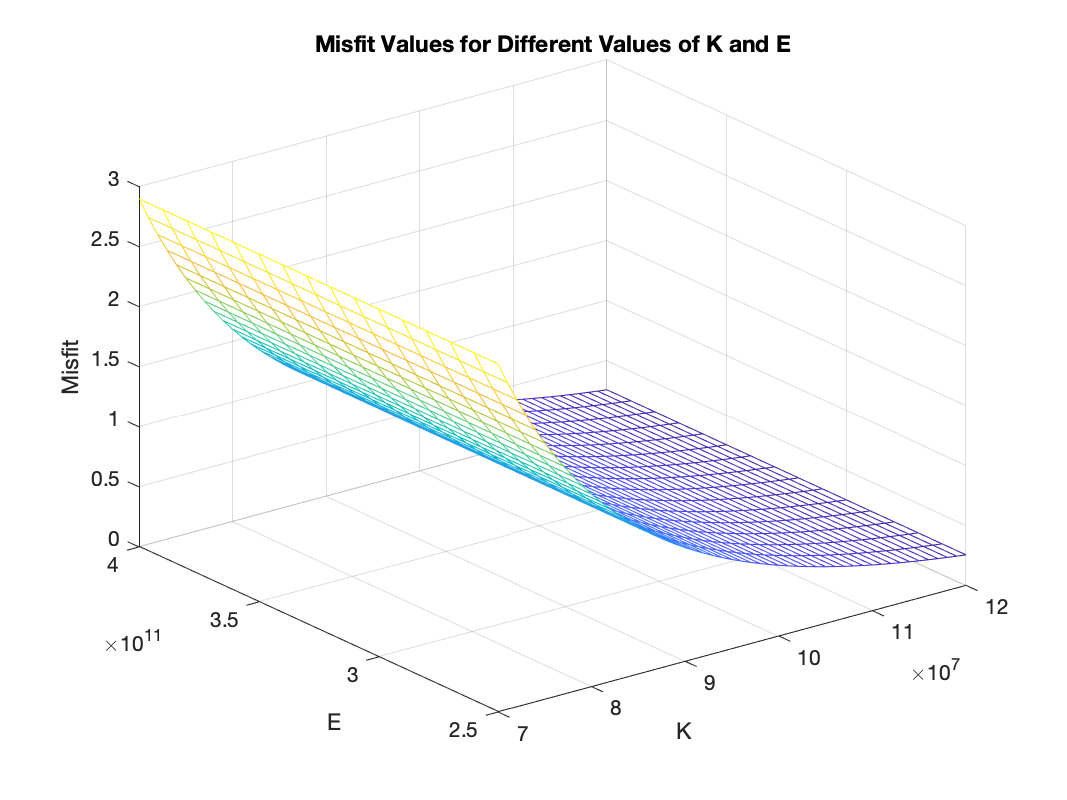
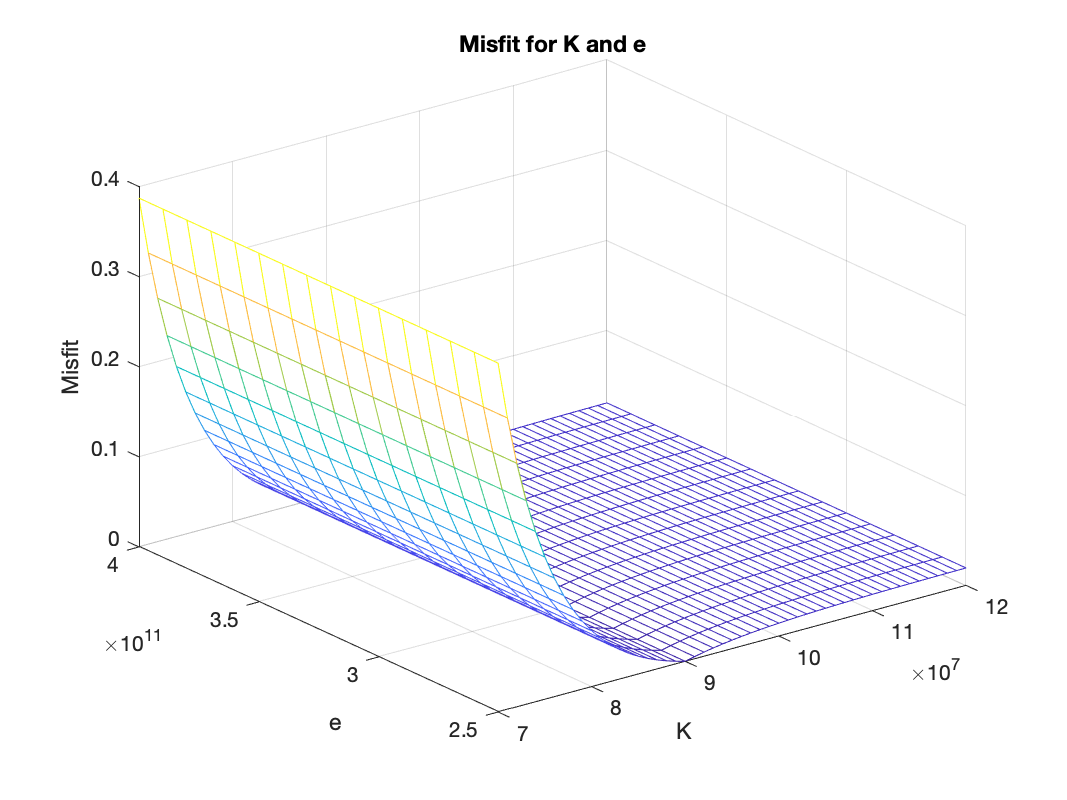
[base] Refactor the code

diff --git a/Project/Project.m b/Project/Project.m
@@ -1,33 +1,13 @@
 clear all; close all; clc;
 
-%% Forward Problem
+% Dataset
 % Define parameters
-beam.E = 300e9; % Pa
+beam.E = 300e+09; % Pa
 beam.K = 90e+06; % Pa
 beam.n = 12;
 dsigma = 0.8e6; % Pa*s^-1
 r = 0.0254; % m
 s = pi * r^2; % m^2
-
-% Define time span
-tspan = [0:0.1:80]'; % s
-
-% Define ODE function
-%[t, epsilon_exp]=ode45(@forward_sigma, tspan, 0, [], beam, dsigma);
-epsilon_exp = forana(beam, tspan, dsigma); % creation of synthetic data
-t = tspan;
-sigma_exp = dsigma * t; % creation of synthetic data
-N = length(epsilon_exp);
-%epsilon_exp = epsilon_exp + 0.01 * randn(N,1);
-
-
-% Plot the forward problem
-figure
-plot(epsilon_exp, sigma_exp);
-xlabel('Strain');
-ylabel('Stress');
-title('Stress-Strain Curve: Forward Problem with Guessed Parameters');
-saveas(gcf, 'assets/forward_problem.png');
 
 % Set range of parameters
 n_range = 4:0.1:30;
@@ -36,77 +16,57 @@ e_range = e_range .* 1e9;
 k_range = 70:1:120;
 k_range = k_range .* 1e6;
 
-% Plot misfit values for different values of n
-for i=1:length(n_range)   
-    x = [beam.E; beam.K; n_range(i)]; 
-    value(i)=misfit_sig(x, epsilon_exp, t, beam, dsigma);
-end
+% Define time span
+tspan = [0:0.1:80]'; % s
+
+% Noise level in percentage
+noise_level = 1;
+
+% Define ODE function
+%[t, epsilon_exp]=ode45(@forward_sigma, tspan, 0, [], beam, dsigma);
+epsilon_exp = forana(beam, tspan, dsigma); % creation of synthetic data
+t = tspan;
+sigma_exp = dsigma * t; % creation of synthetic data
+N = length(epsilon_exp);
+
+
+% Plot the forward problem
 figure
-plot(n_range, value);
-xlabel('n');
-ylabel('Misfit');
-title('Misfit Values for Different Values of n');
-saveas(gcf, 'assets/misfit_n.png');
+plot(epsilon_exp, sigma_exp);
+if noise ~= 0
+    hold on;
+    epsilon_exp = epsilon_exp + noise_level/100 * randn(N,1);
+    plot(epsilon_exp, sigma_exp);
+    hold off;
+    legend('Original', 'Noisy');
+end
+xlabel('Strain');
+ylabel('Stress');
+title('Stress-Strain Curve: Forward Problem with Guessed Parameters');
+saveas(gcf, 'assets/forward_problem.png');
+
+
+% Plot misfit values for different values of n
+misfit_plotter(e_range, k_range, n_range, epsilon_exp, t, beam, dsigma, 'n');
 
 % Plot misfit values for different values of E
-value = zeros(size(e_range));
-for i=1:length(e_range)   
-    x = [e_range(i); beam.K; beam.n]; 
-    value(i)=misfit_sig(x, epsilon_exp, t, beam, dsigma);
-end
-figure
-plot(e_range, value);
-xlabel('E');
-ylabel('Misfit');
-title('Misfit Values for Different Values of E');
-saveas(gcf, 'assets/misfit_e.png');
+misfit_plotter(e_range, k_range, n_range, epsilon_exp, t, beam, dsigma, 'E');
 
 % Plot misfit values for different values of K
-value = zeros(size(k_range));
-for i=1:length(k_range)   
-    x = [beam.E; k_range(i); beam.n]; 
-    value(i)=misfit_sig(x, epsilon_exp, t, beam, dsigma);
-end
-figure
-plot(k_range, value);
-xlabel('K');
-ylabel('Misfit');
-title('Misfit Values for Different Values of K');
-saveas(gcf, 'assets/misfit_k.png');
+misfit_plotter(e_range, k_range, n_range, epsilon_exp, t, beam, dsigma, 'K');
 
 
 % Global optimization using manually iterating over the range of parameters
 [misfit_values, E_opt, K_opt, n_opt] = misfit_global(epsilon_exp, t, beam, dsigma, e_range, k_range, n_range);
 
 % Generate mesh of E and n ranges
-[E_mesh, n_mesh] = meshgrid(e_range, n_range);
-figure
-mesh(E_mesh, n_mesh, squeeze(misfit_values(:,end,:))'); % plot for n = n_range(1)
-xlabel('E');
-ylabel('n');
-zlabel('Misfit');
-title('Misfit Values for Different Values of E and n');
-saveas(gcf, 'assets/misfit_e_n.png');
+mesh_plotter(misfit_values, e_range, k_range, n_range, 'K', beam);
 
 % Generate mesh of K and n ranges
-[K_mesh, n_mesh] = meshgrid(k_range, n_range);
-figure
-mesh(K_mesh, n_mesh, squeeze(misfit_values(1,:,:))'); % plot for n = n_range(1)
-xlabel('K');
-ylabel('n');
-zlabel('Misfit');
-title('Misfit Values for Different Values of K and n');
-saveas(gcf, 'assets/misfit_k_n.png');
+mesh_plotter(misfit_values, e_range, k_range, n_range, 'E', beam);
 
 % Generate mesh of K and E ranges
-[K_mesh, E_mesh] = meshgrid(k_range, e_range);
-figure
-mesh(K_mesh, E_mesh, squeeze(misfit_values(:,:,5))); % plot for n = n_range(1)
-xlabel('K');
-ylabel('E');
-zlabel('Misfit');
-title('Misfit Values for Different Values of K and E');
-saveas(gcf, 'assets/misfit_k_e.png');
+mesh_plotter(misfit_values, e_range, k_range, n_range, 'n', beam);
 
 
 %% Inverse Problem (Identification usign fminsearch)
@@ -124,8 +84,6 @@ fun = @(x) misfit_sig(x, epsiexp, t, beam, dsigma);
 
 % Define initial guess and search bounds
 x0 = [beam.E; beam.K; beam.n]; % initial guess
-lb = [1e4; 1e3; 0.2]; % lower bound
-ub = [1e16; 85e9; 30]; % upper bound
 
 % Optimization
 options = optimset('Display','iter'); % display iterations
@@ -145,7 +103,6 @@ idbeam.n = x_opt(3);
 epsilon_id = forana(idbeam, t, dsigma); % creation of synthetic data using the identified model
 sigma_id = dsigma * t; % creation of synthetic data using the identified model
 
-
 figure
 plot(epsiexp, sigexp, 'b', epsilon_id, sigma_id, 'r');
 xlabel('Strain');
@@ -155,6 +112,11 @@ legend('Data', 'Identified Model');
 saveas(gcf, 'assets/identified_model.png');
 
 %%%%%%%%%%%%%%%%%%%%%%%%%%%%%%%%%%%%%%%%%%%%%%%%%%%%%%%%%%%%%%%%%%%%%%%%%%%%%%%%%%%%%%%%%%%%%%%%%%%%%%%
+% Define objective function
+%%
+% Run optimization
+
+
 %% Other tests that didnt work
 
 % It is found that the misfit function is not convex. Hence, the global optimization is not possible.

diff --git a/Project/mesh_plotter.m b/Project/mesh_plotter.m
@@ -1,0 +1,36 @@
+function mesh_plotter(misfit_values, a_range, b_range, c_range, z_axis, beam)
+
+    if z_axis == 'K'
+        idx = find(b_range == beam.K);
+        misfit_slice = squeeze(misfit_values(:,idx,:))';
+        xlab = 'E';
+        ylab = 'n';
+        f = a_range;
+        g = c_range;
+    elseif z_axis == 'n'
+        idx = find(c_range == beam.n);
+        misfit_slice = squeeze(misfit_values(:,:,idx));
+        xlab = 'K';
+        ylab = 'e';
+        f = b_range;
+        g = a_range;
+    elseif z_axis == 'E'
+        idx = find(a_range == beam.E);
+        misfit_slice = squeeze(misfit_values(idx,:,:))';
+        xlab = 'K';
+        ylab = 'n';
+        f = b_range;
+        g = c_range;
+    else
+        error('Invalid ranges');
+    end    
+    [A_mesh, b_mesh] = meshgrid(f, g);
+    figure
+    mesh(A_mesh, b_mesh, misfit_slice); % plot for n = b_range(1)
+    xlabel(xlab);
+    ylabel(ylab);
+    zlabel('Misfit');
+    title([ 'Misfit for ', xlab, ' and ', ylab ]);
+    saveas(gcf, strcat('assets/misfit_', xlab, '_', ylab, '.png'));
+
+end

diff --git a/Project/misfit_plotter.m b/Project/misfit_plotter.m
@@ -1,0 +1,31 @@
+function misfit_plotter(a_range, b_range, c_range, epsilon_exp, t, beam, dsigma, z_axis)
+    if z_axis == 'E'
+        ran = a_range;
+        value = zeros(size(ran));
+        for i=1:length(ran)   
+            x = [ran(i); beam.K; beam.n]; 
+            value(i)=misfit_sig(x, epsilon_exp, t, beam, dsigma);
+        end
+    elseif z_axis == 'K'
+        ran = b_range;
+        value = zeros(size(ran));
+        for i=1:length(ran)   
+            x = [beam.E; ran(i); beam.n]; 
+            value(i)=misfit_sig(x, epsilon_exp, t, beam, dsigma);
+        end
+    elseif z_axis == 'n'
+        ran = c_range;
+        value = zeros(size(ran));
+        for i=1:length(ran)   
+            x = [beam.E; beam.K; ran(i)]; 
+            value(i)=misfit_sig(x, epsilon_exp, t, beam, dsigma);
+        end
+    end
+    
+    figure
+    plot(ran, value);
+    xlabel(z_axis);
+    ylabel('Misfit');
+    title(['Misfit Values for Different Values of ', z_axis]);
+    saveas(gcf, ['assets/misfit_', z_axis, '.png']);
+end
